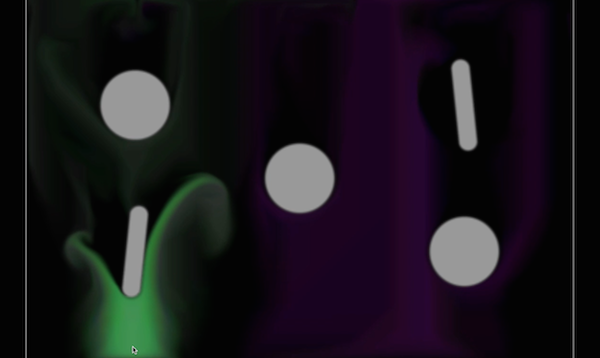
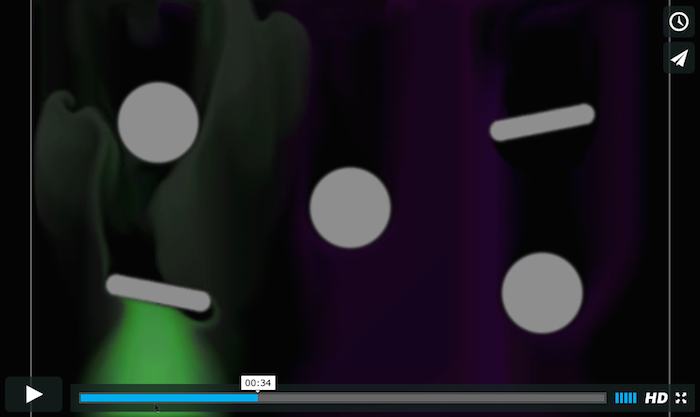
no message

diff --git a/README.md b/README.md
@@ -2,7 +2,9 @@
 
 This project is intended to port 2D fluid simulation to Unity.
 
-<iframe src="https://player.vimeo.com/video/148456579?color=c9ff23" width="500" height="299" frameborder="0" webkitallowfullscreen mozallowfullscreen allowfullscreen></iframe>
+See the demo on Vimeo:
+
+[![ScreenShot](https://github.com/candycat1992/2DFluidSim/blob/master/Screenshots/image0.png)](https://vimeo.com/148456579)
 
 # Unity Version
 
